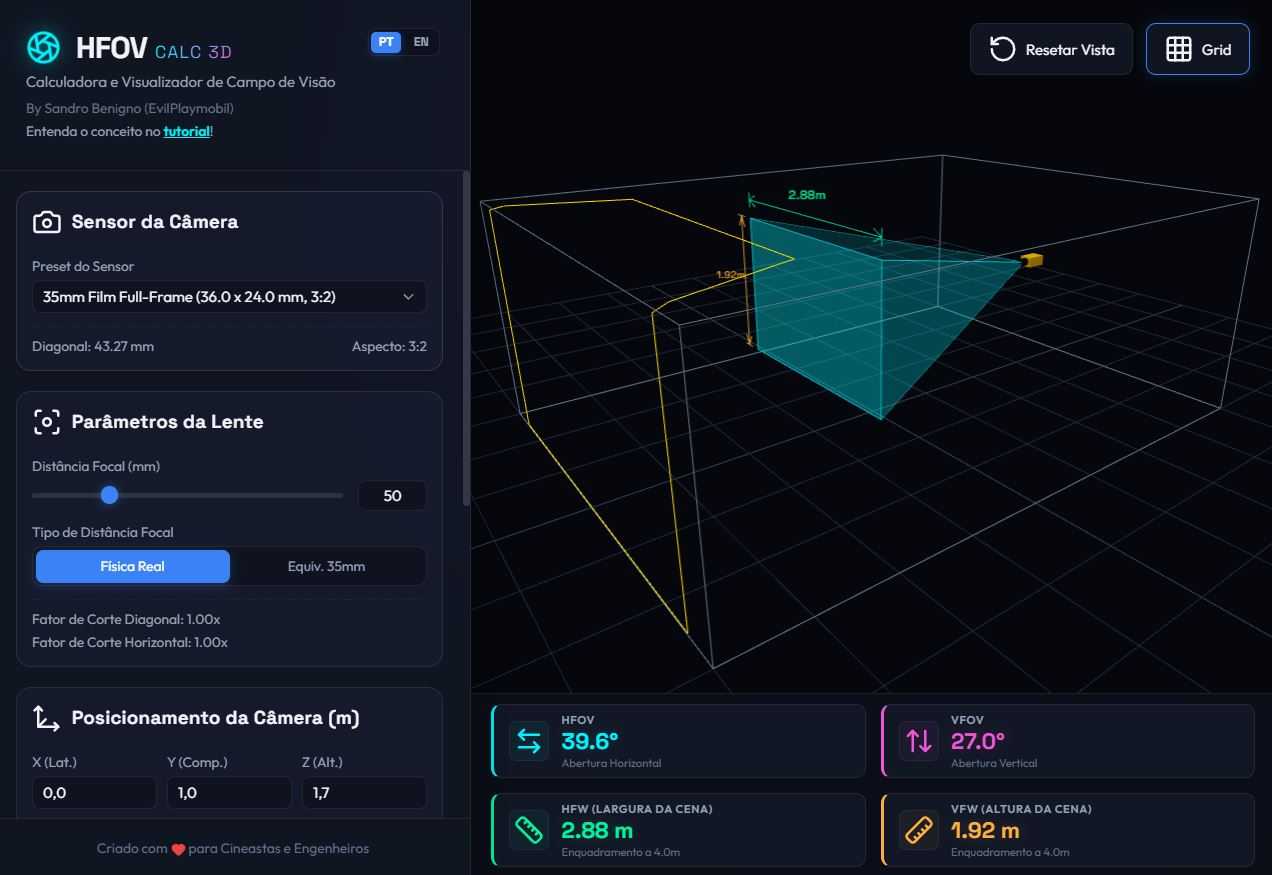
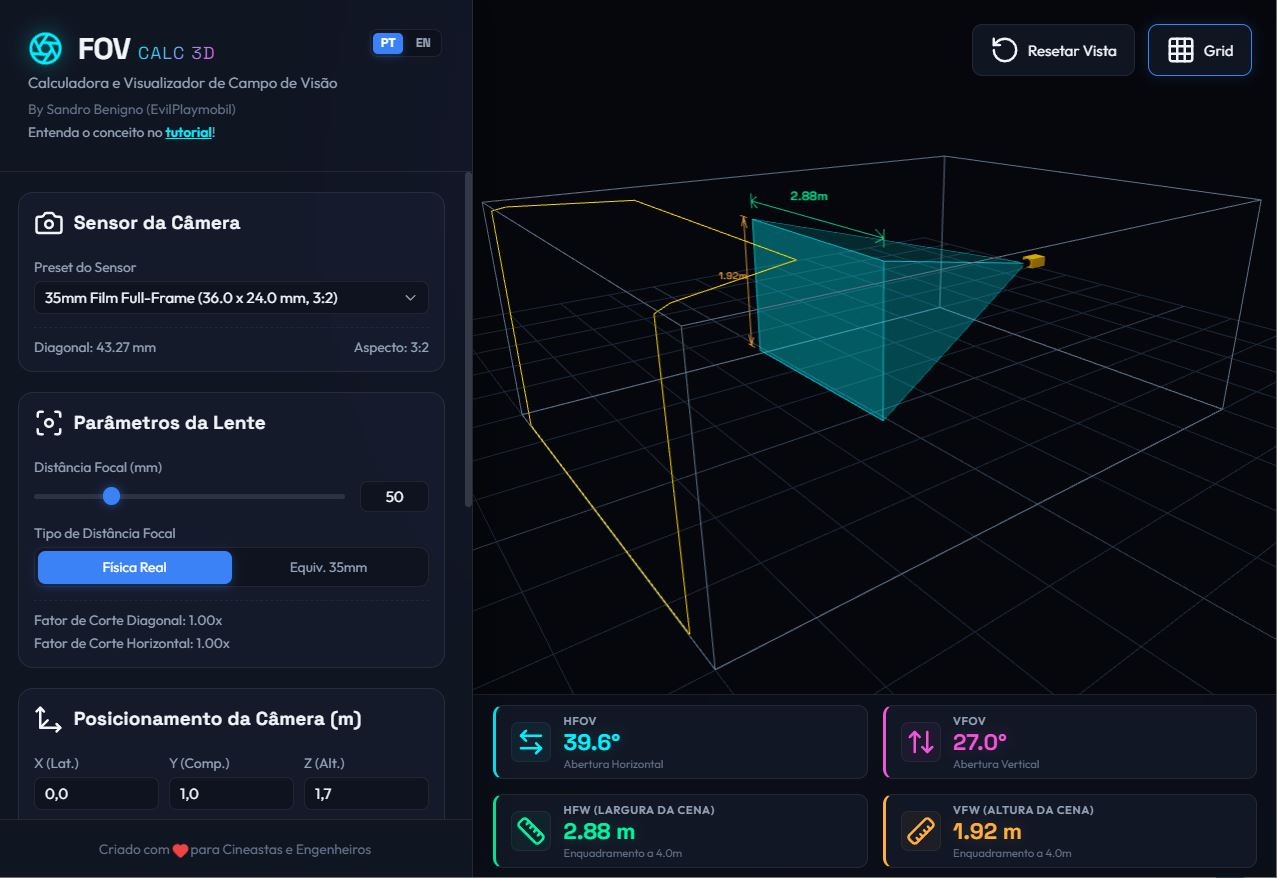
Correcao de Texto

diff --git a/docs/index.html b/docs/index.html
@@ -20,7 +20,7 @@
             <header class="sidebar-header" style="position: relative;">
                 <div class="logo">
                     <i data-lucide="aperture" class="logo-icon"></i>
-                    <h1>HFOV<span>Calc 3D</span></h1>
+                    <h1>FOV<span>Calc 3D</span></h1>
                 </div>
                 <!-- Language Selector absolute positioned in the header -->
                 <div class="lang-selector">
